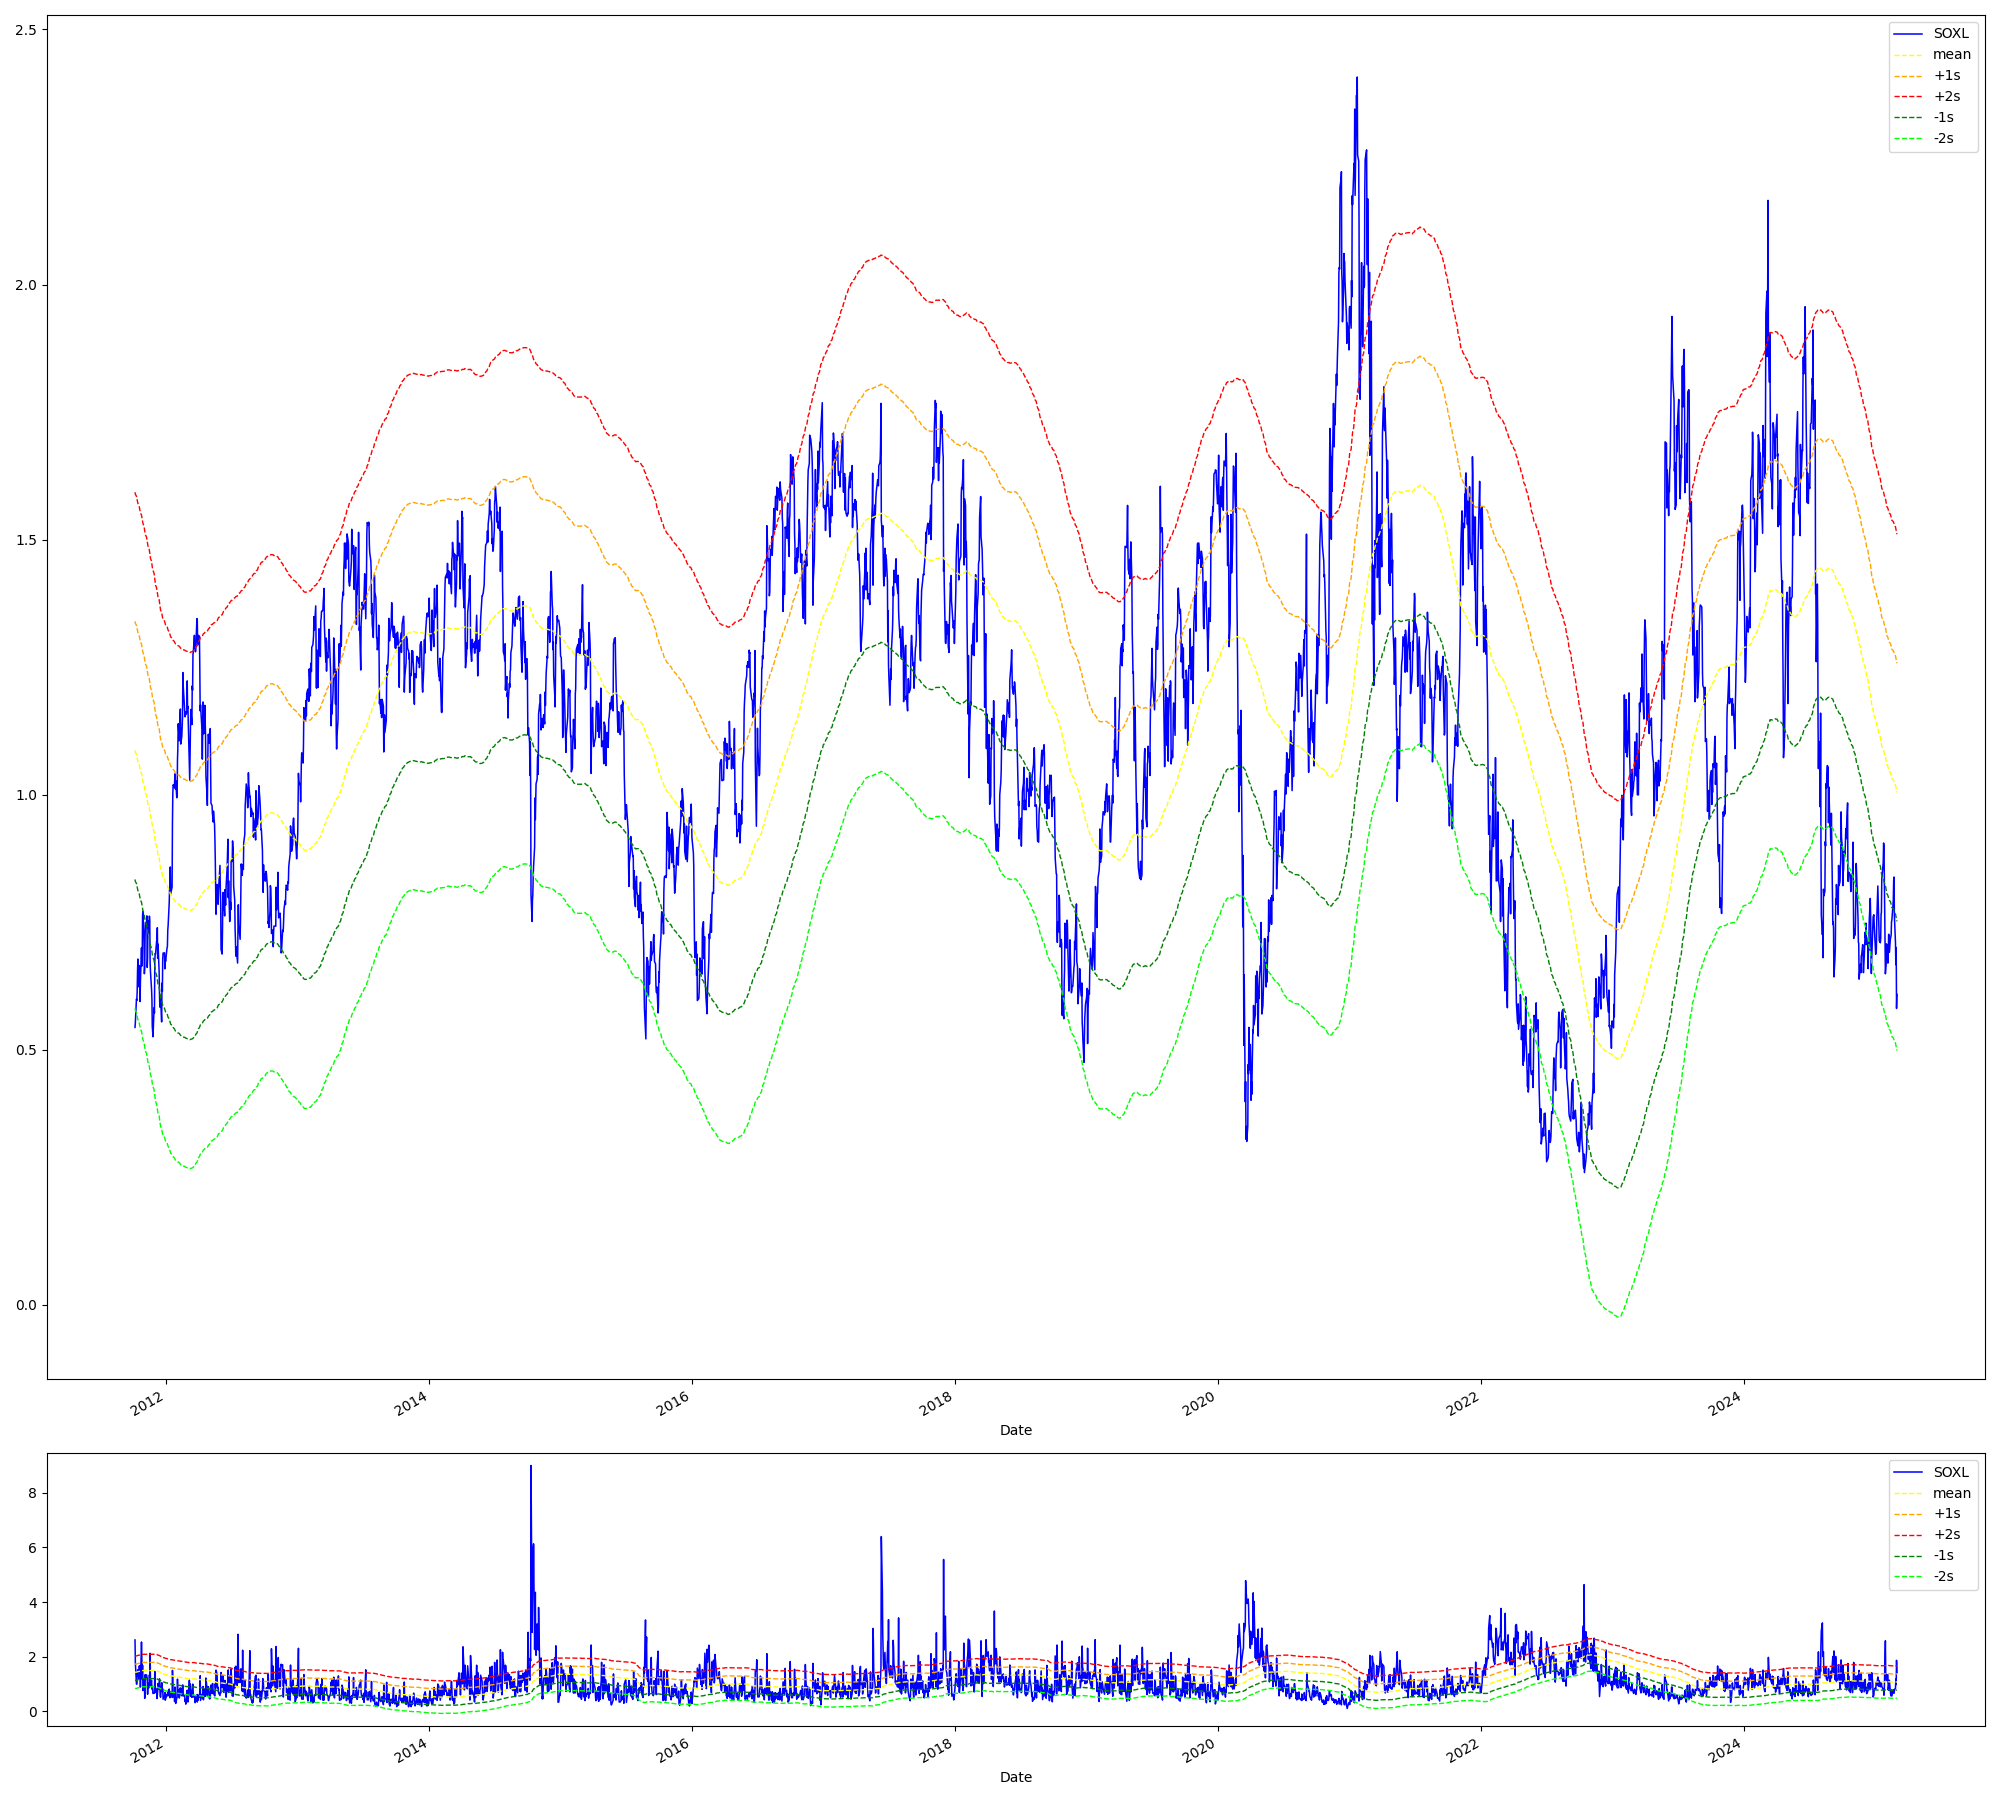
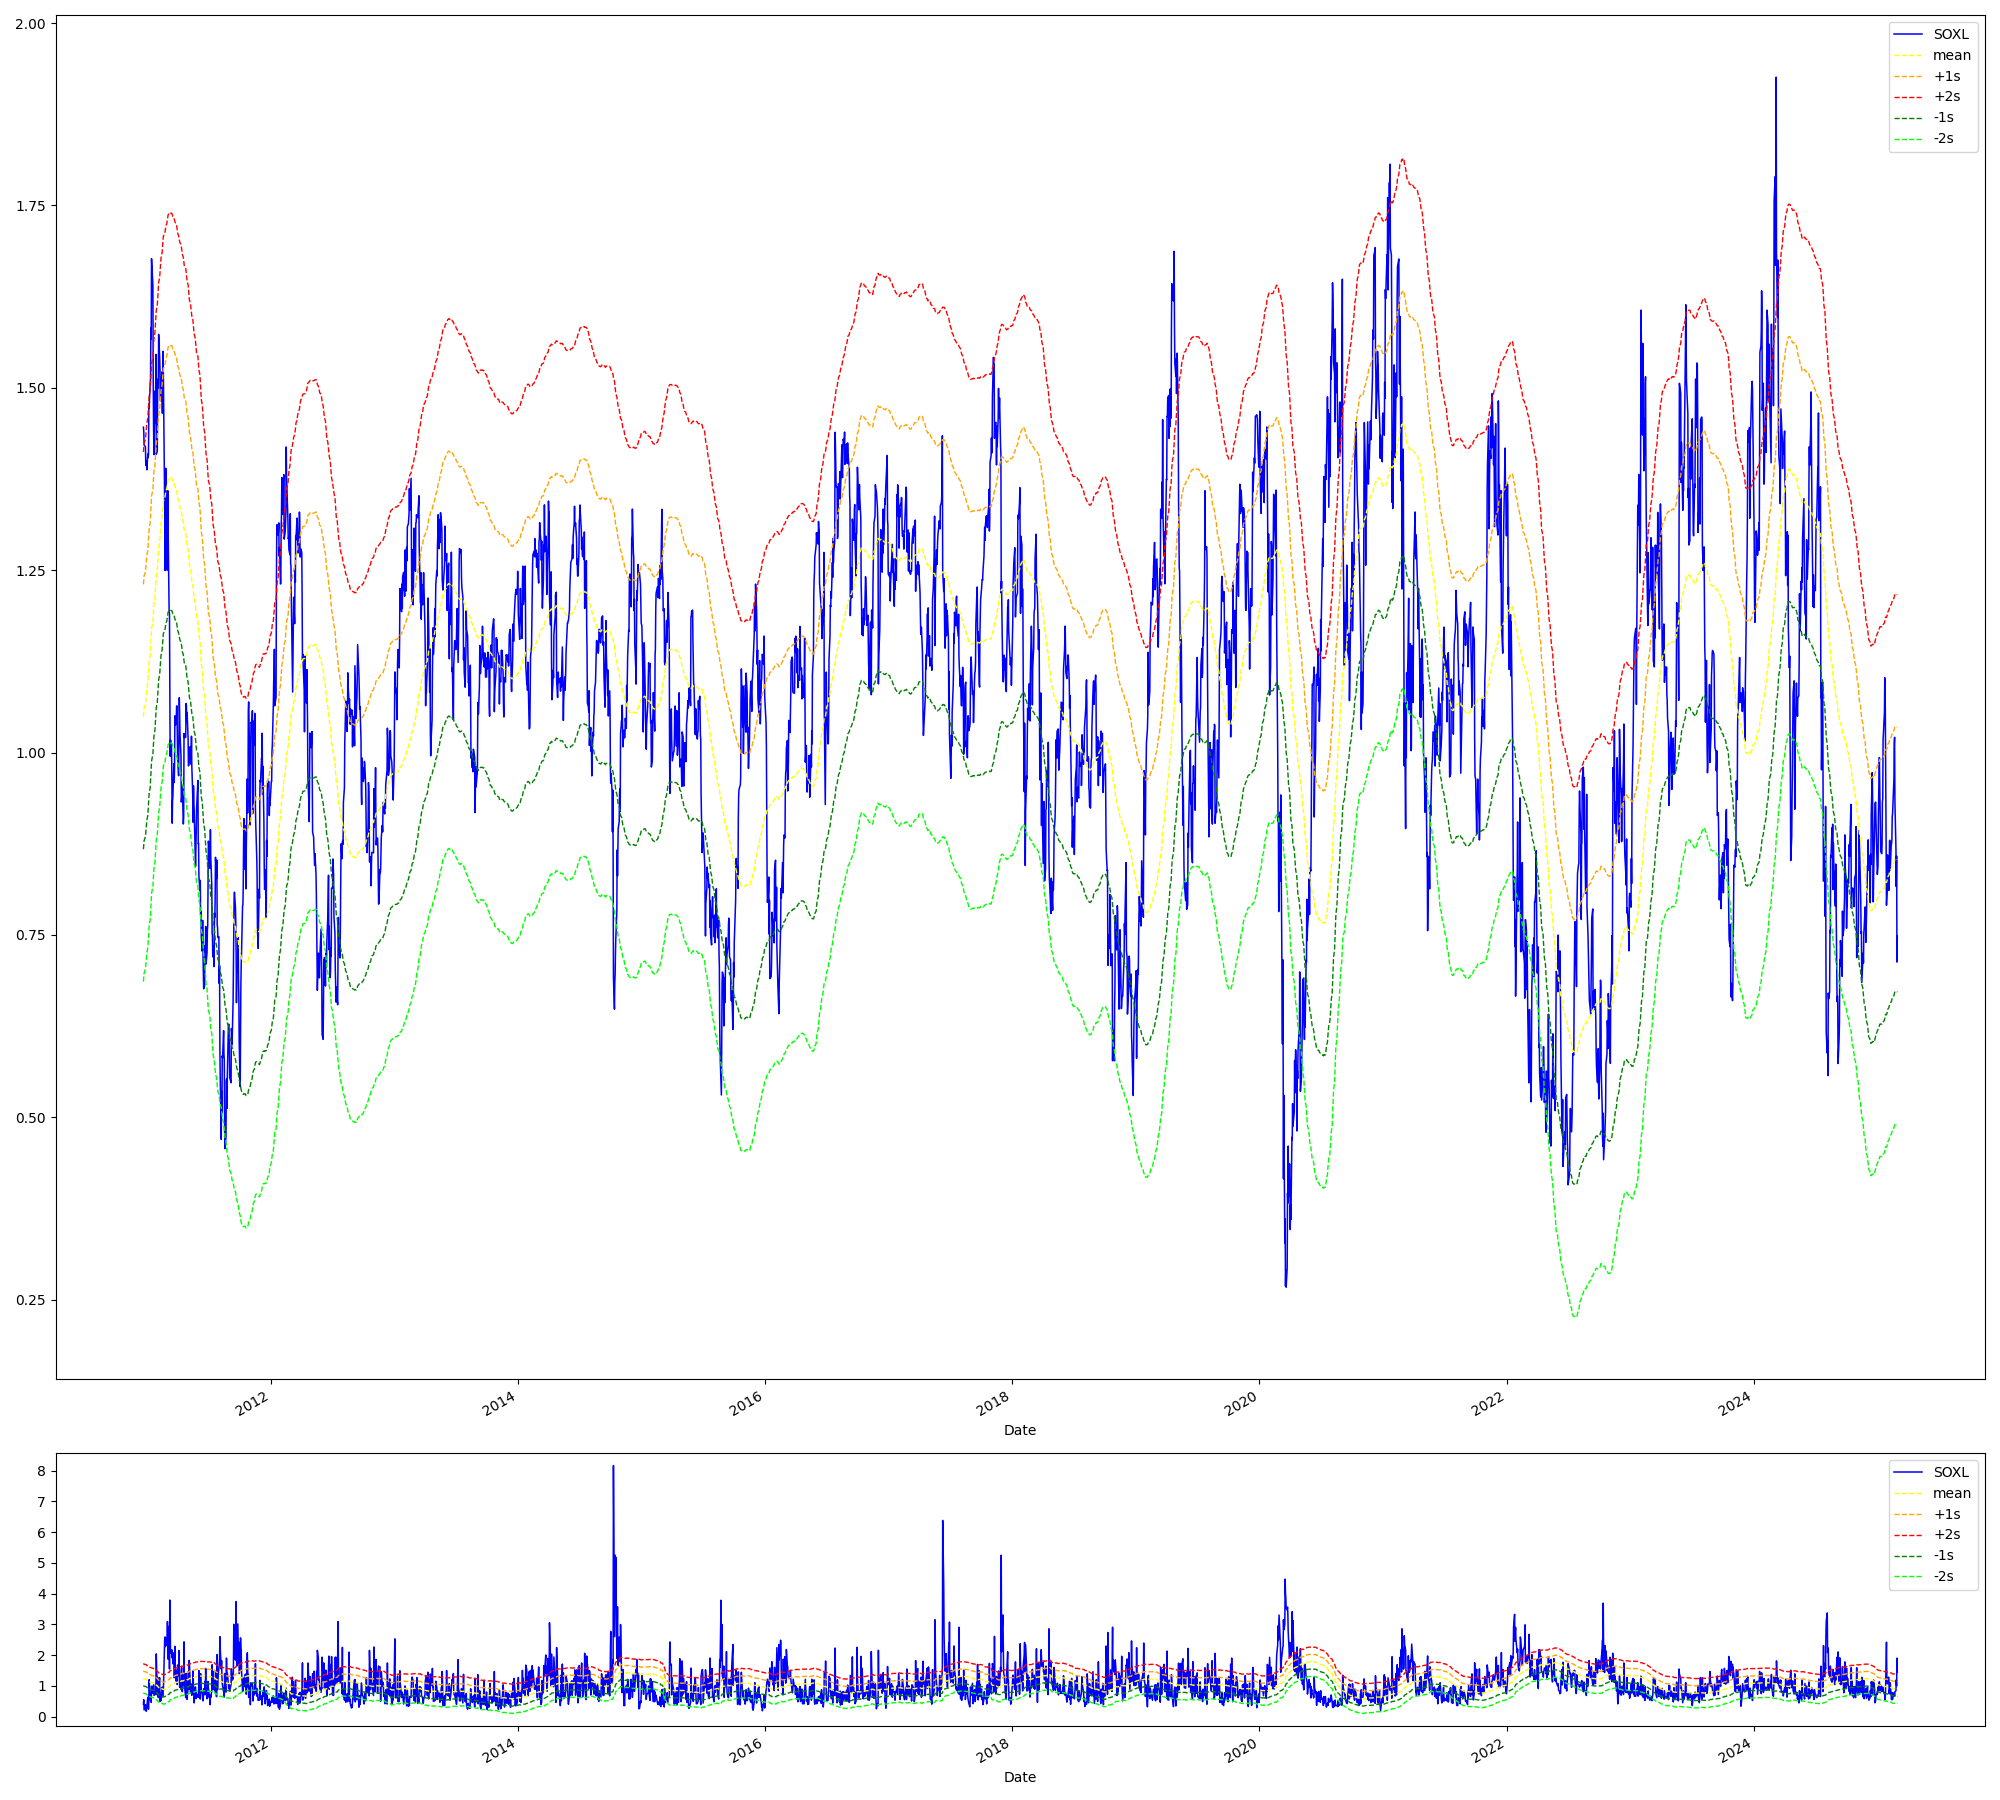
update figures

Changed region(s): [[0.062, 0.0933, 0.961, 0.6844], [0.062, 0.8711, 0.961, 0.9644]]

diff --git a/plot.py b/plot.py
@@ -85,8 +85,8 @@ if __name__ == "__main__":
     #     path_savefile=os.path.join("figures", "return_leverage.png"),
     # )
 
-    plot_series("leverage", start_date="1900-04-01", savedir="figures")
-    plot_series("basic_index", start_date="1900-04-01", savedir="figures")
+    # plot_series("leverage", start_date="1900-04-01", savedir="figures")
+    # plot_series("basic_index", start_date="1900-04-01", savedir="figures")
 
-    # plot_pdf("leverage", start_date="1900-04-01", savedir="figures")
-    # plot_pdf("basic_index", start_date="1900-04-01", savedir="figures")
+    plot_pdf("leverage", start_date="1900-04-01", savedir="figures")
+    plot_pdf("basic_index", start_date="1900-04-01", savedir="figures")
